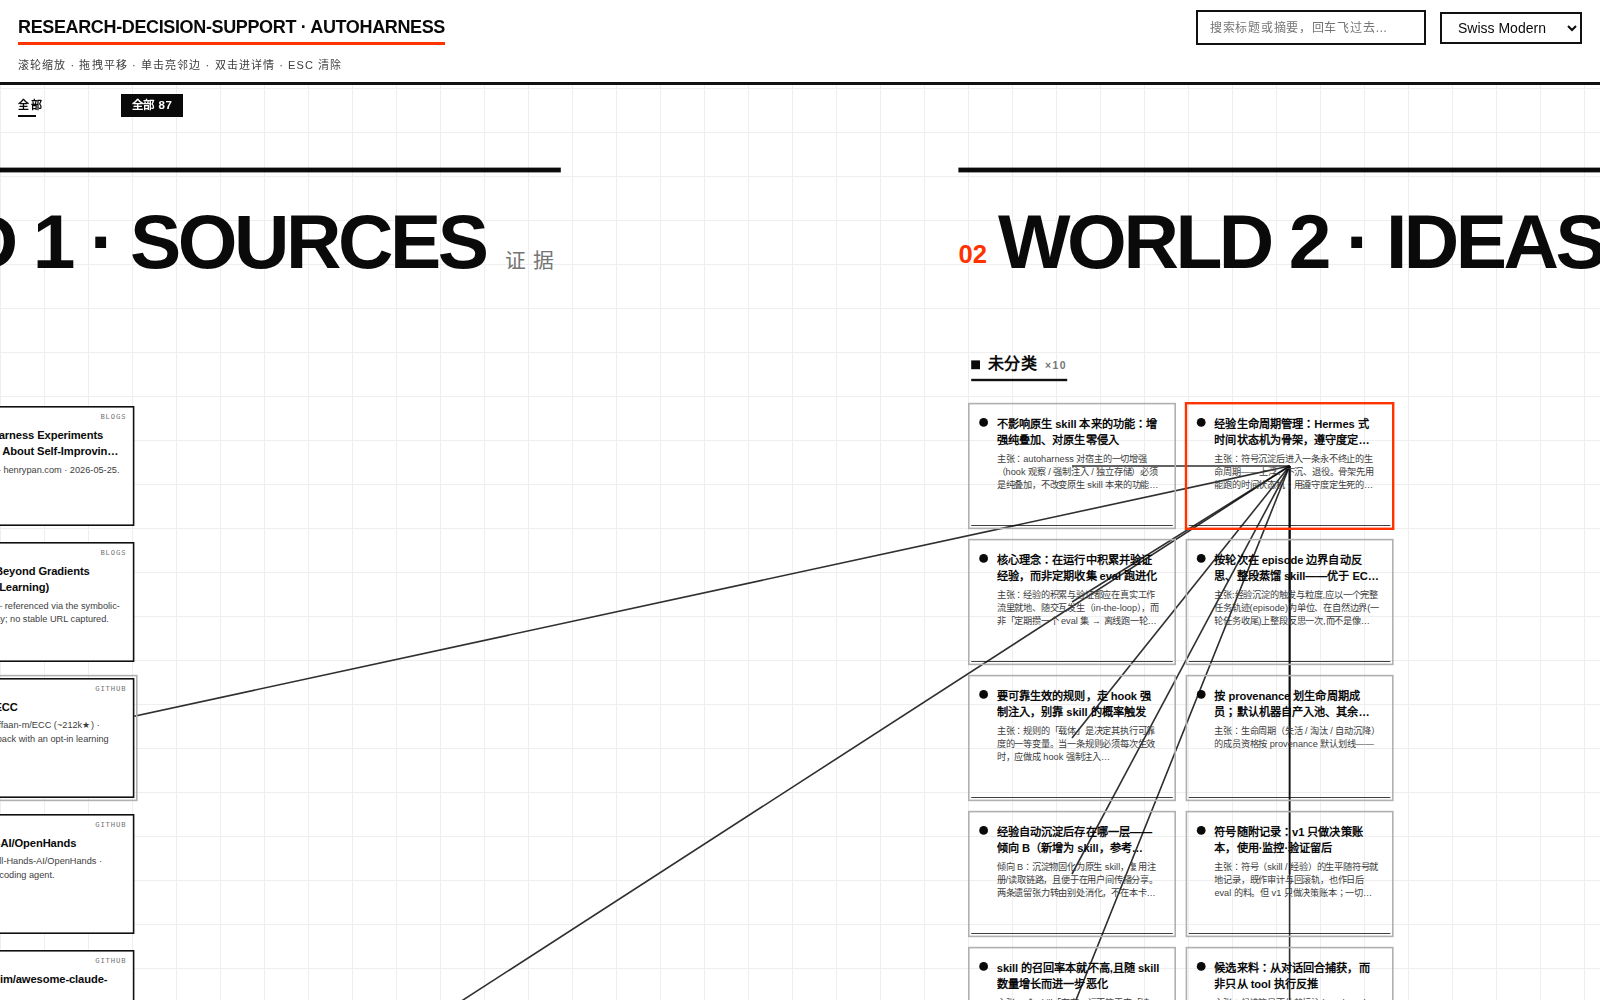
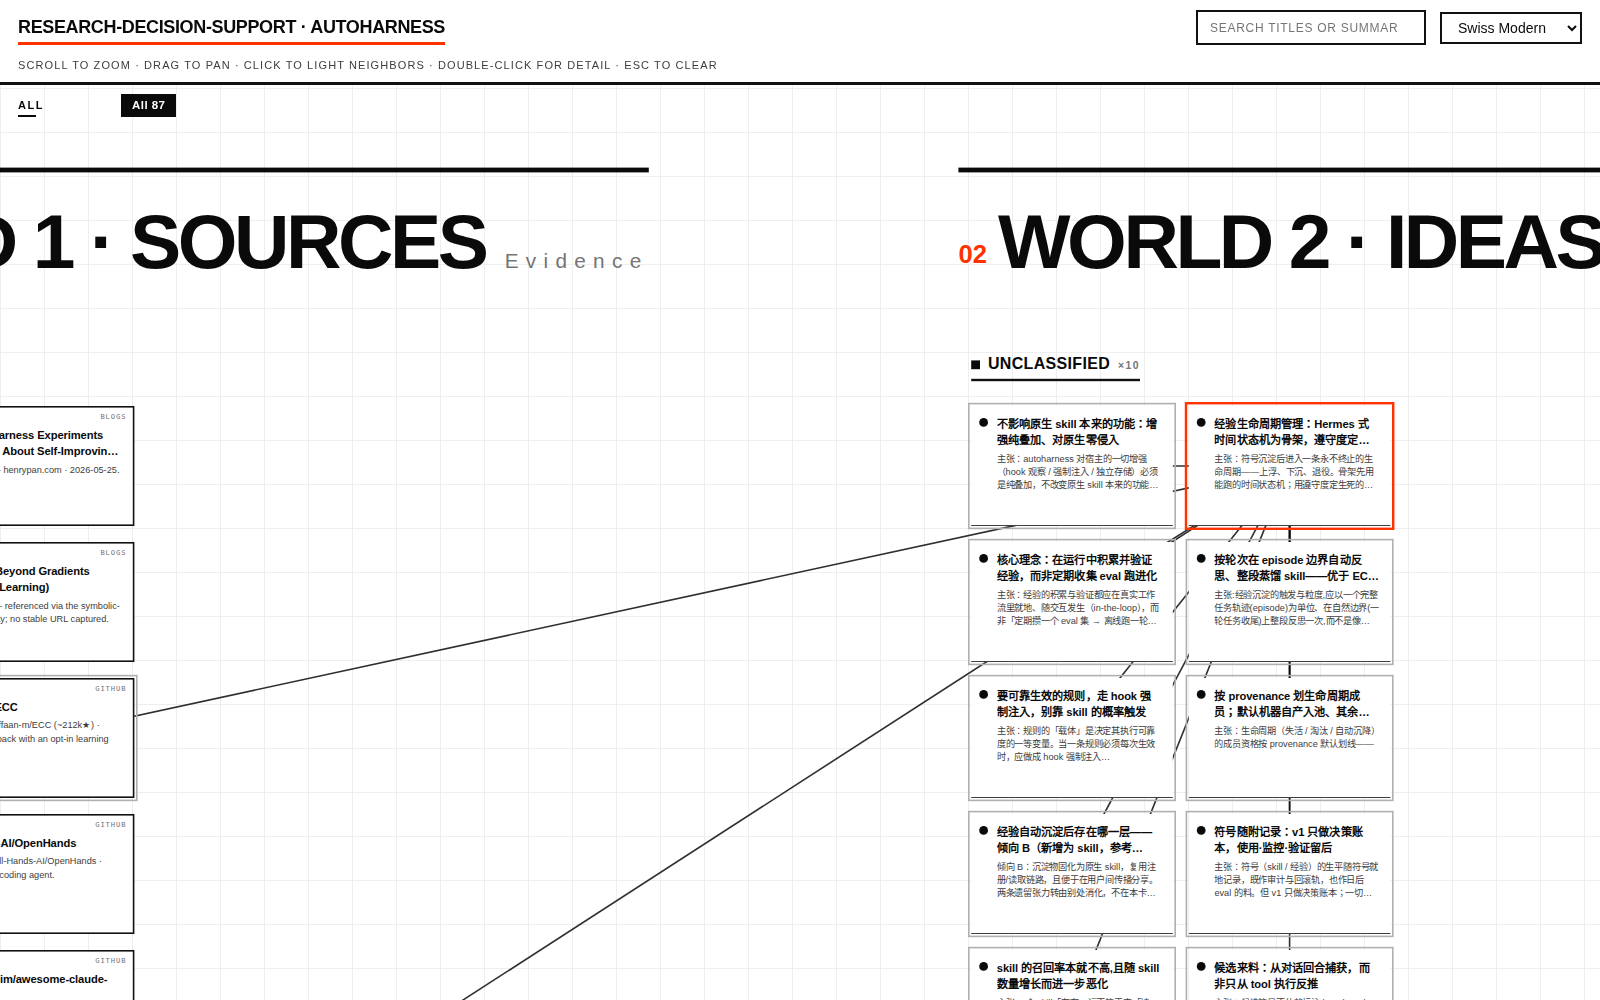
swiss-modern: idea slips get a page-colored ground so edges can't strike through text

diff --git a/plugins/research-decision-support/skills/research-decision-support/canvas/styles/swiss-modern/canvas.css b/plugins/research-decision-support/skills/research-decision-support/canvas/styles/swiss-modern/canvas.css
@@ -94,7 +94,7 @@ body { background:var(--page); color:var(--ink); font:14px/1.5 var(--body);
   font-family:var(--mono); }
 .card .badge + .t { margin-top:12px; }
 .card.note { background:var(--surface); border:2px solid var(--grid); border-radius:0; }
-.card.slip { background:transparent; border:none; border-bottom:1px solid var(--grid);
+.card.slip { background:var(--page); border:none; border-bottom:1px solid var(--grid);
   border-radius:0; padding-left:32px; }
 .card.slip::before { content:""; position:absolute; left:10px; top:15px; width:11px;
   height:11px; border-radius:50%; background:var(--ink); }

diff --git a/tests/test_style_pack.py b/tests/test_style_pack.py
@@ -425,3 +425,15 @@ def test_shipped_index_has_discriminating_axes():
     entries = shipped_index()["styles"]
     for axis in ("formality", "density"):
         assert len({entry[axis] for entry in entries}) >= 2, axis
+
+
+def test_shipped_layer_cards_occlude_edges():
+    # Edges paint beneath cards, so a content card with a transparent ground
+    # lets edge strokes strike through its text; every layer card must carry
+    # an opaque ground.
+    for entry in shipped_index()["styles"]:
+        css = (SHIPPED_PACK / entry["slug"] / "canvas.css").read_text(encoding="utf-8")
+        for layer in ("note", "slip", "kraft"):
+            for _, declarations in layer_grammar(css, layer):
+                assert "background:transparent" not in declarations, (entry["slug"], layer)
+                assert "background:none" not in declarations, (entry["slug"], layer)

diff --git a/plugins/research-decision-support/skills/research-decision-support/canvas/styles/swiss-modern/design.md b/plugins/research-decision-support/skills/research-decision-support/canvas/styles/swiss-modern/design.md
@@ -100,8 +100,9 @@ index mark.
 ### single-canvas
 
 Layers take three typographic forms, all squared and unrotated. Sources are hard white
-cards with two-pixel ink borders. Ideas are annotation lines: transparent ground, a single
-ink baseline rule, and a solid ink dot as the entry bullet. Output docs are solid ink
+cards with two-pixel ink borders. Ideas are annotation lines: page-colored ground (reads
+as bare page yet occludes edge strokes passing beneath), a single ink baseline rule, and a
+solid ink dot as the entry bullet. Output docs are solid ink
 blocks with page-colored text and the meta line in red. The ground shows the construction
 grid; world titles sit on a heavy ink top rule and carry a red superscript ordinal (the
 view's loud red); group labels lead with a solid ink square and underline in ink. Edges